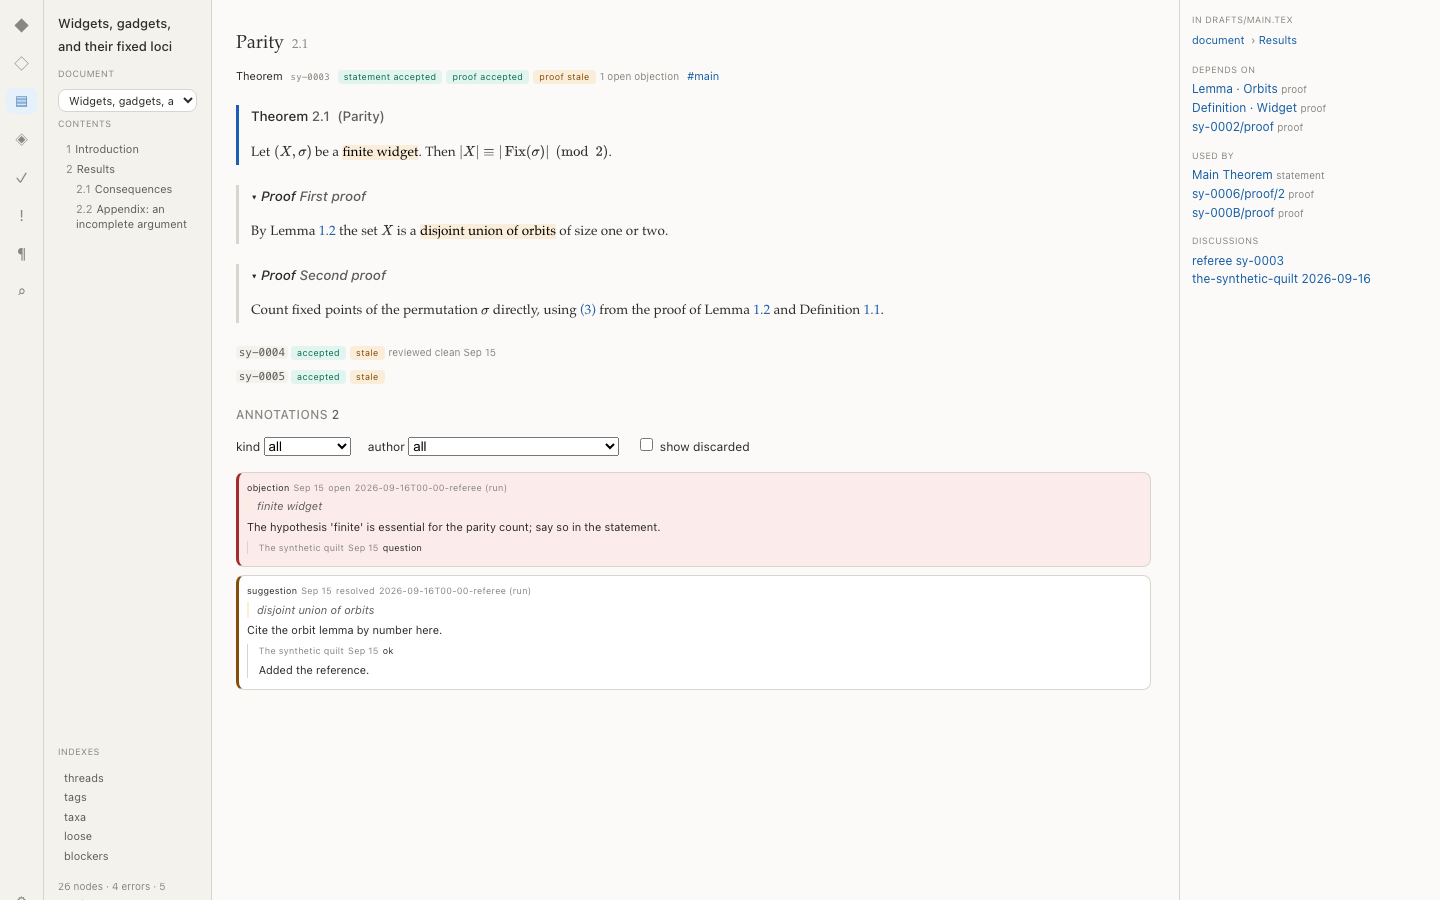
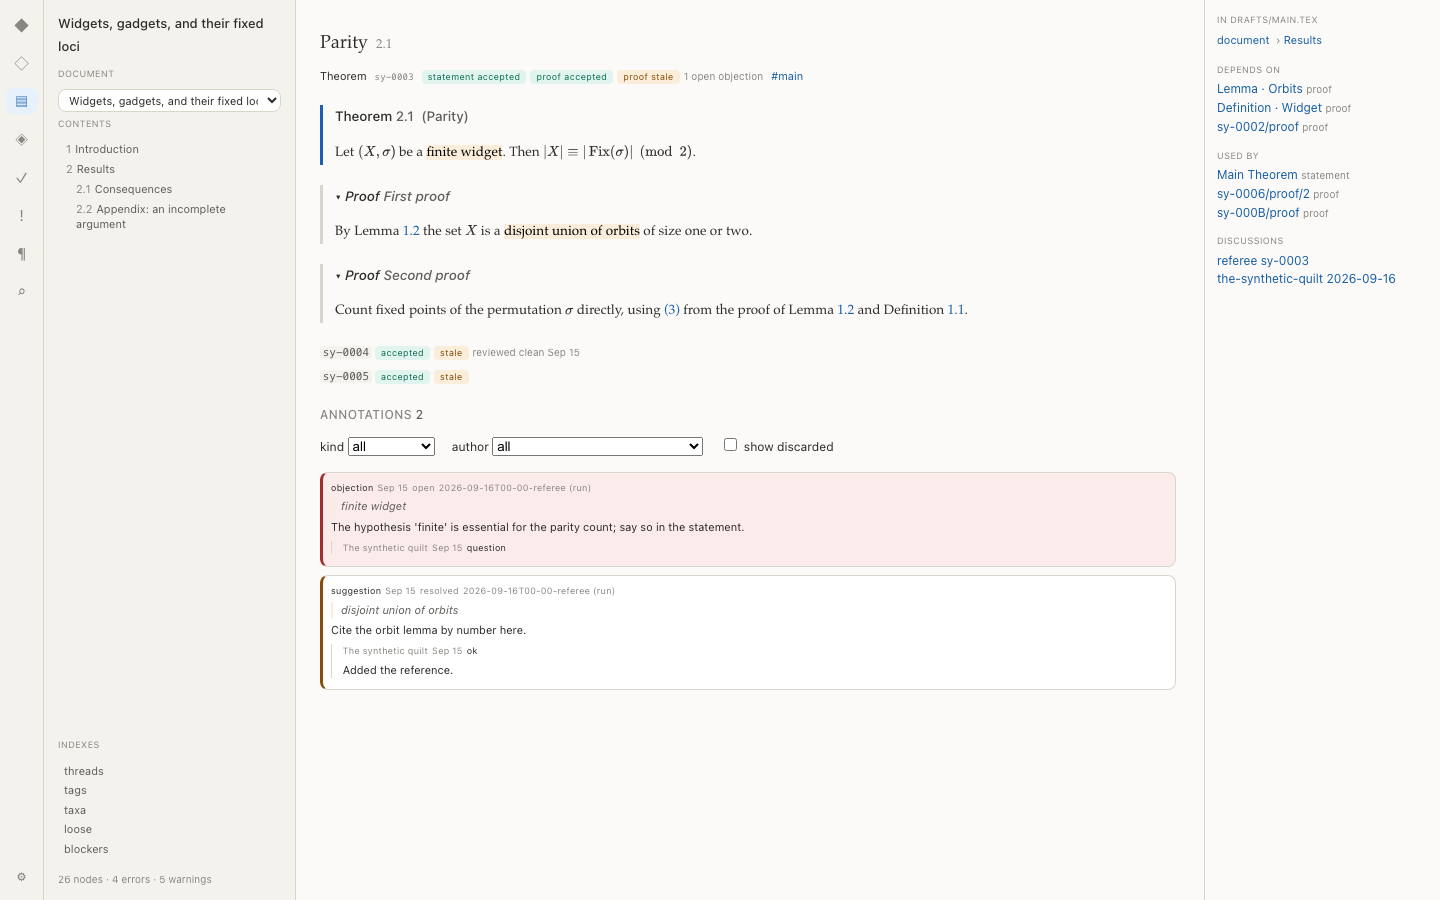
DR-99: the shells fit the window, and chapter 15 carries the new numbers
15.2's three rails, the token table, the box model and the scrollbar rule.

diff --git a/docs/book/15-arras-layout.md b/docs/book/15-arras-layout.md
@@ -27,19 +27,19 @@ Markers as elsewhere. The chapter was written before the viewer was built and it
 
 ![Shell A](figures/shell-a-rail-sections.png)
 
-**[decided]** A 178px rail, `--leaf`, hairline right border, holding stacked sections separated by 10px and small-caps 9px muted labels: the corpus label (13px, no label) with the settings control beside it; `VIEW` (the six views as 13px rows with a 15px leading icon, the current one on `--link-wash` with `--link` text, and search below them); the page's own panel when it has registered one; `DOCUMENT` (a select, full rail width minus 2×14px); `CONTENTS` (the heading tree of the current document, indent 10px per level, the current section marked by a 2px `--link` bar on the left edge and `--ink` text); `INDEXES`; and the counts. No top bar.
+**[decided]** A 267px rail, `--leaf`, hairline right border, holding stacked sections separated by 10px and small-caps 9px muted labels: the corpus label (13px, no label) with the settings control beside it; `VIEW` (the six views as 13px rows with a 15px leading icon, the current one on `--link-wash` with `--link` text, and search below them); the page's own panel when it has registered one; `DOCUMENT` (a select, full rail width minus 2×14px); `CONTENTS` (the heading tree of the current document, indent 10px per level, the current section marked by a 2px `--link` bar on the left edge and `--ink` text); `INDEXES`; and the counts. No top bar.
 
 ### 15.2.2 Shell B: top bar and tabs
 
 ![Shell B](figures/shell-b-topbar-tabs.png)
 
-**[decided]** A 30px top bar, `--leaf`, hairline bottom border: the corpus label (12px) at the left; a breadcrumb beside it naming the current document; view tabs pushed right, the current one on `--link-wash`; a search affordance and the settings control at the far right. The rail below is 160px and holds the document picker, the page's panel when it has one, the contents tree, the indexes and the counts.
+**[decided]** A 30px top bar, `--leaf`, hairline bottom border: the corpus label (12px) at the left; a breadcrumb beside it naming the current document; view tabs pushed right, the current one on `--link-wash`; a search affordance and the settings control at the far right. The rail below is 240px and holds the document picker, the page's panel when it has one, the contents tree, the indexes and the counts.
 
 ### 15.2.3 Shell C: icon strip and panel
 
 ![Shell C](figures/shell-c-icon-strip.png)
 
-**[decided]** A 44px icon strip, `--leaf`, holding the home mark and six 19px view icons at a 38px vertical pitch, the current one on a 32×26px `--link-wash` with `--rad-control`, search below them and the settings control at the foot; every icon has an `aria-label` and a tooltip. The settings panel opens upward from that control, because a panel hung below the foot of a full-height column opens past the bottom of the window. Beside the strip a 168px panel: the page's own panel when it has registered one, otherwise the document picker above the contents tree in the views that are about a document and the view list elsewhere, with the indexes and the counts below. Default shell.
+**[decided]** A 44px icon strip, `--leaf`, holding the home mark and six 19px view icons at a 38px vertical pitch, the current one on a 32×26px `--link-wash` with `--rad-control`, search below them and the settings control at the foot; every icon has an `aria-label` and a tooltip. The settings panel opens upward from that control, because a panel hung below the foot of a full-height column opens past the bottom of the window. Beside the strip a 252px panel: the page's own panel when it has registered one, otherwise the document picker above the contents tree in the views that are about a document and the view list elsewhere, with the indexes and the counts below. Default shell.
 
 ## 15.3 Page anatomy
 
@@ -118,6 +118,8 @@ See 15.5.
 
 **[decided]** Arras defines its own token vocabulary. It does not adopt the names used in these design documents or in any other product's design system: borrowing names would imply a shared system that does not exist, and arras's vocabulary should describe what it renders, which is a page of mathematics rather than application chrome. The names below are drawn from print. Every colour, measure, and typeface is a variable; no component hardcodes a value.
 
+**[decided]** Padding and borders count inside a declared size, everywhere. A rail is `height: 100vh` with padding, and without this it is that much taller than the window, which puts the settings control and the counts line below the fold (DR-99).
+
 **[decided]** Visual character: a warm off-white page, hairline rules rather than borders, generous line height, no shadows, no filled chrome, colour used only to carry meaning. Claude's web interface is a reasonable reference for that character; nothing is copied from it.
 
 **[decided]** The vocabulary, with the light-mode values the viewer ships:
@@ -137,8 +139,8 @@ See 15.5.
 | `--mark` | `#faeeda` | annotation highlight behind marked text |
 | `--gap-hair` `--gap-tight` `--gap` `--gap-wide` | 4, 8, 12, 20px | spacing scale |
 | `--rad-pill` `--rad-control` `--rad-card` | 4, 8, 12px | radii |
-| `--rail-left` `--rail-right` `--strip` | 168, 236, 44px | the fixed widths of 15.2 |
-| `--rail-a` `--rail-b` `--topbar` | 178, 160, 30px | shell A's rail, shell B's rail, shell B's bar |
+| `--rail-left` `--rail-right` `--strip` | 252, 236, 44px | the fixed widths of 15.2 |
+| `--rail-a` `--rail-b` `--topbar` | 267, 240, 30px | shell A's rail, shell B's rail, shell B's bar |
 | `--gutter` | `(100cqw − --measure) / 3` | the read view's gutters, on the site generator's algebra |
 | `--env-accent` | 3px | the per-taxon rule, and the boundary the left gutter ends at |
 | `--measure` | 36rem, 44rem, 52rem by setting | body line width; the middle is the site generator's |
@@ -178,7 +180,7 @@ NavShell({ label, views, currentView, masters, currentMaster, contents,
   renders the page, the page's right rail, and the page's left panel
 ```
 
-Rules: pages receive no shell props and import no shell module; a page that needs a right rail or a left panel registers one, and the shell places it; a page's title lives in the page, never in the shell; the three arrangements differ only in placement, never in what they contain. Adding an element to one shell means adding it to all three or to none. Every rail is a scroll container, and that belongs to the shell rather than to any page's stylesheet, so no view can regress it.
+Rules: pages receive no shell props and import no shell module; a page that needs a right rail or a left panel registers one, and the shell places it; a page's title lives in the page, never in the shell; the three arrangements differ only in placement, never in what they contain. Adding an element to one shell means adding it to all three or to none. Every rail is a scroll container, and that belongs to the shell rather than to any page's stylesheet, so no view can regress it. A rail's scrollbar is `thin` with a transparent thumb until the pointer or the keyboard is in the rail, so a contents tree of 74 entries does not carry a grey stripe down the side of every page; the space it needs is reserved either way, so nothing shifts when it appears (DR-99).
 
 **[decided]** Shared components as built: `Badge(parts, facts)` and `IdChip(id, aliases)` for the header line; `RailList(label, empty)` for every section of the right rail; `DiffView(path)` for the two-column diff of 15.3.5; `HelpDot(label, topic)` for the question mark of 15.3.5; `Contents`, `DocumentPicker` and `Settings` shared by the three shells; `PageRail` and `PagePanel`, the two registries; `Tex(text)`, which typesets a title that carries mathematics, since a title keeps its `$…$` rather than losing it (DR-96).
 

diff --git a/docs/book/A-decision-records.md b/docs/book/A-decision-records.md
@@ -202,3 +202,5 @@ DR-89 · 2026-09-16 · Brainstorming and granularity with one new directive · P
 DR-97 · 2026-09-16 · Four changes that let a client scan an editor's buffers · 5.9.1, 5.7.3, 9.1 · `kpsewhich` is memoised per name, since it is a subprocess run once per unresolved inclusion and a paper's unresolved names repeat: it was 86 ms of a 166 ms scan on the Manolache import, and a warm scan of that quilt is now 74 ms. `\ref`, `\eqref`, `\cref` and `\uses` sites carry the character offset and column that were computed and thrown away, so `EdgeRec` has `offset` and `column` and a `dangling-link` points at the command rather than at the line. A node records `label_offsets`, the offset of each of its `\label`s, so a definition site is a range and not a line; a section's labels all point at its sectioning command, which is where a reader wants to land. `scan(quilt, overlay)` takes a map of quilt-relative paths to the text of unsaved buffers, which stand in for what is on disk, and a path that exists only in a buffer resolves as an inclusion, so a file written and not yet saved is scanned. · Each is small and improves loom alone; together they are what a language server needs, and without the last one an editor's diagnostics would follow the last save rather than the keystrokes.
 
 DR-98 · 2026-09-16 · The read view is a measured column between two gutters · 15.3.1, 15.6, 15.7 · The document sits in a column of `--measure` plus a third of the slack around it, with a gutter either side of `(available − measure)/3`, which is the site generator's own algebra, so that a corpus page and a note page are laid out alike. The gutter is a container-relative length (`100cqw`), not a percentage, because the things standing in it are positioned against a node and a percentage would resolve against that node. The margin annotation — the key and its state — moves out of the text column into the left gutter, ending exactly at the environment's taxon accent, which is now the boundary between the two rather than a rule 96px inside the text. A node's comments stand in the right gutter beside it; one whose rendered text runs past 220 characters stays in the text as a box instead, because a paragraph squeezed into a gutter is unreadable. Below 1100px there are no gutters and both rejoin the flow. The width scale becomes 36, 44 and 52rem so that the middle setting is the site generator's 44rem. · Chapter 15.3.1 gave the read view an 86px margin column inside the text and put comments in the shell's right rail. Built, the margin column took its width from the text and the rail put a comment a third of a screen away from the sentence it was about; the author asked for both to move into gutters, and for a comment with something to say to stay in the text where it can be read.
+
+DR-99 · 2026-09-16 · The shells fit the window, and the rails are half again as wide · 15.2, 15.6, 15.8 · Padding and borders count inside a declared size throughout the viewer. The contents-bearing rails are 252px in shell C, 267px in shell A and 240px in shell B, half again their design widths; the icon strip and the right rail are unchanged. A rail's scrollbar is `thin` with a transparent thumb until the pointer or the keyboard is in the rail, and the space it needs is reserved either way, so nothing shifts when it appears. · Every rail is `height: 100vh` with 12px of padding, and under the default box model that is 24px taller than the window: the settings control at the foot of the icon strip and the counts line at the foot of the panel were both below the fold, and the whole page scrolled by exactly that much. At the design widths a contents entry of a real paper wrapped onto three lines — the ACGS import's "Stable logarithmic maps and their moduli" among many — which the extra width fixes at the cost of gutters some 30px narrower. And a rail that always showed its scrollbar put a grey stripe down the side of every page of a long document.

diff --git a/docs/records/record-2026-09-16.md b/docs/records/record-2026-09-16.md
@@ -95,6 +95,12 @@ The author looked at the built read view and asked for the site generator's page
 
 Built as DR-98. The gutters are the site generator's algebra exactly, `(available − measure)/3` each with the text column absorbing the third they give up, so a corpus page and a note page are laid out alike, and the width scale moved to 36, 44 and 52rem so the middle setting is the site generator's own 44rem. The gutter had to be a container-relative length rather than a percentage: the margin annotation and the gutter comments are positioned against a node, and a percentage in a custom property resolves at the point of use, so the first attempt produced 50px gutters beside every environment. The comment cards are Svelte components mounted into slots the fragment's wiring creates, because the fragment is injected HTML and a template cannot reach into it.
 
+### After review: the shell fits the window
+
+The author found the page very slightly too tall — the settings control and the counts line needed a scroll — and asked for a wider rail and a quieter scrollbar. Built as DR-99.
+
+The height was the default box model: every rail is `height: 100vh` with 12px of padding, which is 24px taller than the window, measured as 924px against 900. `box-sizing: border-box` throughout fixes it and the class of bug behind it. The contents-bearing rails are half again as wide, which stops a real paper's contents entries wrapping onto three lines and costs about 30px of gutter. A rail's scrollbar is thin with a transparent thumb until the pointer or the keyboard is in the rail, with its space reserved either way so nothing shifts when it appears.
+
 ## Design changes
 
 **The manifest gained a field the plan said Part A would not need.** The plan stated that nothing loom publishes changes and that there would be no manifest change and no interface bump. Half of that held: the interface version is unchanged, because the change is additive. But the contents tree cannot be built correctly without knowing a section's own depth. The inclusion tree nests everything a section contains beneath it, so a `\section` following a `\section` is a tree child of the first while being its outline sibling, and a `\paragraph` unit is indistinguishable from a chapter. Section node entries therefore carry `"level"` (DR-91). Without it the ACGS paper's rail fills with paragraph units and indents them all wrongly.

diff --git a/docs/deviations.md b/docs/deviations.md
@@ -67,3 +67,4 @@ Every place the implementation departs from a `[decided]` statement, or settles 
 | 2026-09-16 | 4.7, 11.5, specs/fixture.md §1 | (unstated) candidate taxa and a mode for exploring | the minimal master declares `conjecture` and `question`; the demo gains an outline master; an eighth mode, brainstorm, with four blocks | a quilt should be usable for planning from the first minute | DR-89 | y |
 | 2026-09-16 | 5.7.3, 5.9.1, 9.1 | (unstated) offsets are computed and discarded; `scan` reads the disk | `\ref` and `\uses` sites carry offset and column, nodes record their label offsets, `kpsewhich` is memoised, and `scan(quilt, overlay)` reads unsaved buffers | a language server needs ranges, not lines, and must see the buffer | DR-97 | y
 | 2026-09-16 | 15.3.1, 15.6, 15.7 | an 86px margin column inside the text; comments in the shell's right rail | a measured column between two gutters on the site generator's algebra, the margin annotation in the left gutter, comments in the right, long ones inline as boxes; the width scale is 36/44/52rem | the margin column took its width from the text and the rail put a comment a third of a screen from its sentence | DR-98 | y |
+| 2026-09-16 | 15.2, 15.6, 15.8 | rails of 178, 160 and 168px; the default box model; a scrollbar always drawn | 267, 240 and 252px; `box-sizing: border-box` throughout; a thin scrollbar with a transparent thumb until the rail is used | a rail of `height: 100vh` plus padding was 24px taller than the window, and real contents entries wrapped onto three lines | DR-99 | y |
